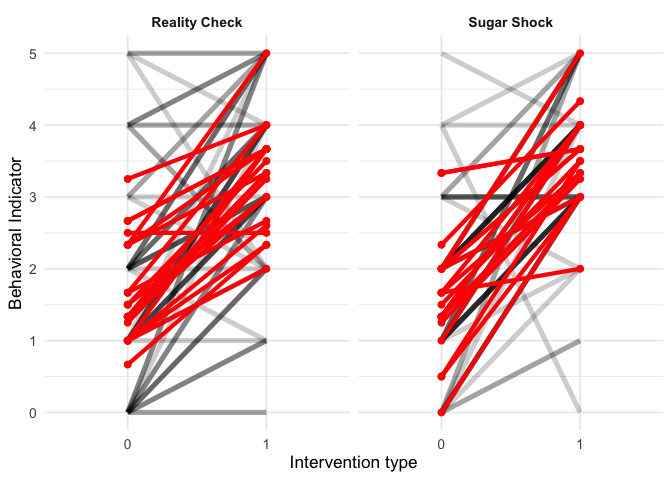
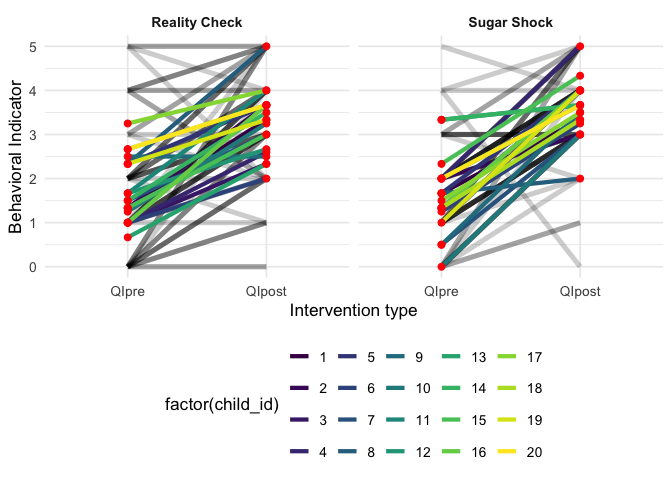
final_version

diff --git a/Projects/lea-immenkamp/Wenjing_solution.md b/Projects/lea-immenkamp/Wenjing_solution.md
@@ -1,4 +1,41 @@
-## Load the file
+# Topic: The impact of various deterrents on children’s consumption of sweets-from Lea
+
+    ## ── Attaching core tidyverse packages ──────────────────────── tidyverse 2.0.0 ──
+    ## ✔ dplyr     1.2.1     ✔ readr     2.2.0
+    ## ✔ forcats   1.0.1     ✔ stringr   1.6.0
+    ## ✔ ggplot2   4.0.3     ✔ tibble    3.3.1
+    ## ✔ lubridate 1.9.5     ✔ tidyr     1.3.2
+    ## ✔ purrr     1.2.2     
+    ## ── Conflicts ────────────────────────────────────────── tidyverse_conflicts() ──
+    ## ✖ dplyr::filter() masks stats::filter()
+    ## ✖ dplyr::lag()    masks stats::lag()
+    ## ℹ Use the conflicted package (<http://conflicted.r-lib.org/>) to force all conflicts to become errors
+    ## Loading required package: Matrix
+    ## 
+    ## 
+    ## Attaching package: 'Matrix'
+    ## 
+    ## 
+    ## The following objects are masked from 'package:tidyr':
+    ## 
+    ##     expand, pack, unpack
+
+## Load the file (btw. remove the missing values)
+
+### quick overview of the data
+
+1.The file consists of two sheets: “Intervention data” and
+“questionaire”.
+
+2.Each child was assigned to one of **two interventions**: “Reality
+Check” or “Sugar Shock”.(in dataset we use “1” for “Reality Check” and
+“2” for “Sugar Shock”).
+
+3.Each type experiment was conducted in **three rounds**, with a pre-
+and post-intervention measurement of the child’s consumption of sweets.
+The pre-intervention measurement is represented by the columns “i1t0” to
+“i5t0”, while the post-intervention measurement is represented by the
+columns “i1” to “i5”.
 
     file.exists("data.xlsx")
 
@@ -26,7 +63,7 @@
     ## $ Helpfulness  <dbl> 4, 4, 4, 4, 3, 3, 3, 4, 3, 2, 2, 3, 4, 4, 3, 3, 4, 2, 4, …
 
     Q_data <- read_excel("data.xlsx", sheet = "questionaire") %>% drop_na()
-    glimpse(Q_data)               
+    glimpse(Q_data)
 
     ## Rows: 20
     ## Columns: 6
@@ -39,8 +76,10 @@
 
 ## Data cleaning
 
-- Calculating the total value before intervention
-- Calculating the total value before intervention
+- Calculating the total value before intervention `QIpre`
+- Calculating the total value before intervention `QIpost`
+- using `across()` and `c()` to select the columns in a more “tidyverse”
+  style
 
 <!-- -->
 
@@ -49,8 +88,30 @@
     #revise: in a more "tidyverse" style
 
     Intervention_data <- Intervention_data %>% mutate(QIpre=rowSums(across(c(i1t0:i5t0))),QIpost=rowSums(across(c(i1:i5))))
+    glimpse(Intervention_data)
 
-- Calculating mean of sweet
+    ## Rows: 119
+    ## Columns: 16
+    ## $ child_id     <dbl> 1, 1, 1, 1, 1, 1, 2, 2, 2, 2, 2, 2, 3, 3, 3, 3, 3, 3, 4, …
+    ## $ Intervention <dbl> 1, 2, 1, 1, 2, 2, 1, 2, 1, 1, 2, 2, 2, 1, 1, 2, 1, 2, 2, …
+    ## $ i1t0         <dbl> 0, 0, 0, 1, 0, 0, 0, 1, 0, 0, 0, 0, 0, 0, 1, 0, 0, 0, 0, …
+    ## $ i2t0         <dbl> 0, 1, 0, 1, 0, 1, 1, 0, 0, 0, 0, 1, 1, 0, 1, 0, 1, 0, 0, …
+    ## $ i3t0         <dbl> 0, 0, 0, 0, 1, 0, 0, 1, 1, 0, 1, 0, 0, 0, 0, 1, 0, 0, 0, …
+    ## $ i4t0         <dbl> 0, 0, 1, 0, 1, 1, 0, 0, 1, 0, 0, 0, 1, 0, 0, 0, 0, 1, 1, …
+    ## $ i5t0         <dbl> 0, 0, 1, 0, 0, 0, 1, 1, 0, 0, 0, 1, 0, 0, 0, 0, 0, 0, 1, …
+    ## $ i1           <dbl> 0, 1, 1, 0, 1, 1, 1, 0, 1, 1, 1, 1, 1, 0, 1, 1, 1, 1, 1, …
+    ## $ i2           <dbl> 1, 1, 1, 1, 1, 1, 1, 0, 1, 1, 0, 1, 1, 0, 1, 1, 1, 0, 1, …
+    ## $ i3           <dbl> 1, 1, 1, 0, 1, 0, 0, 1, 1, 0, 1, 1, 1, 0, 0, 1, 0, 1, 1, …
+    ## $ i4           <dbl> 1, 0, 1, 0, 1, 1, 0, 1, 1, 0, 0, 0, 1, 0, 1, 1, 0, 1, 1, …
+    ## $ i5           <dbl> 1, 0, 1, 0, 0, 0, 1, 1, 1, 1, 0, 1, 1, 0, 1, 0, 1, 0, 1, …
+    ## $ Motivation   <dbl> 3, 2, 3, 3, 3, 3, 3, 4, 3, 3, 3, 3, 2, 3, 2, 2, 3, 4, 2, …
+    ## $ Helpfulness  <dbl> 4, 4, 4, 4, 3, 3, 3, 4, 3, 2, 2, 3, 4, 4, 3, 3, 4, 2, 4, …
+    ## $ QIpre        <dbl> 0, 1, 2, 2, 2, 2, 2, 3, 2, 0, 1, 2, 2, 0, 2, 1, 1, 1, 2, …
+    ## $ QIpost       <dbl> 4, 3, 5, 1, 4, 3, 3, 3, 5, 3, 2, 4, 5, 0, 4, 4, 3, 3, 5, …
+
+- Calculating mean of sweet to get children’s attitude toward sweet
+  consumption, and then merge it with Intervention\_data by “child\_id”
+  column.
 
 <!-- -->
 
@@ -79,76 +140,126 @@
     ## # ℹ 8 more variables: i2 <dbl>, i3 <dbl>, i4 <dbl>, i5 <dbl>, Motivation <dbl>,
     ## #   Helpfulness <dbl>, QIpre <dbl>, QIpost <dbl>
 
-    # plotdata_1
+## Data visualization
 
-    # "0" presents "pre"; "1" prsents "0" 
+1.  To compare the effect of two interventions, we make the plot where
+    each line represents one participant, connecting their pre score to
+    post score. We need two datasets:
+
+- the individual QIpre & QIpost scores
+
+<!-- -->
+
     plot_data <-df_withmean  %>% select(child_id, Intervention, QIpre,QIpost) %>%group_by(child_id, Intervention) %>%
     mutate(trial_id = row_number()) %>%
     ungroup() %>%
     mutate(pair_id = paste(child_id, Intervention, trial_id, sep = "_")) %>% pivot_longer(cols = c(QIpre,QIpost),names_to = "time",values_to = "score") %>% mutate(
         time = factor(time, 
-                      levels = c("QIpre","QIpost"),
-                      labels = c(0, 1))
+                      levels = c("QIpre","QIpost"))
       )  
+    glimpse(plot_data)
 
-       
-      
-    plot_data
+    ## Rows: 238
+    ## Columns: 6
+    ## $ child_id     <dbl> 1, 1, 1, 1, 1, 1, 1, 1, 1, 1, 1, 1, 2, 2, 2, 2, 2, 2, 2, …
+    ## $ Intervention <dbl> 1, 1, 2, 2, 1, 1, 1, 1, 2, 2, 2, 2, 1, 1, 2, 2, 1, 1, 1, …
+    ## $ trial_id     <int> 1, 1, 1, 1, 2, 2, 3, 3, 2, 2, 3, 3, 1, 1, 1, 1, 2, 2, 3, …
+    ## $ pair_id      <chr> "1_1_1", "1_1_1", "1_2_1", "1_2_1", "1_1_2", "1_1_2", "1_…
+    ## $ time         <fct> QIpre, QIpost, QIpre, QIpost, QIpre, QIpost, QIpre, QIpos…
+    ## $ score        <dbl> 0, 4, 1, 3, 2, 5, 2, 1, 2, 4, 2, 3, 2, 3, 3, 3, 2, 5, 0, …
 
-    ## # A tibble: 238 × 6
-    ##    child_id Intervention trial_id pair_id time  score
-    ##       <dbl>        <dbl>    <int> <chr>   <fct> <dbl>
-    ##  1        1            1        1 1_1_1   0         0
-    ##  2        1            1        1 1_1_1   1         4
-    ##  3        1            2        1 1_2_1   0         1
-    ##  4        1            2        1 1_2_1   1         3
-    ##  5        1            1        2 1_1_2   0         2
-    ##  6        1            1        2 1_1_2   1         5
-    ##  7        1            1        3 1_1_3   0         2
-    ##  8        1            1        3 1_1_3   1         1
-    ##  9        1            2        2 1_2_2   0         2
-    ## 10        1            2        2 1_2_2   1         4
-    ## # ℹ 228 more rows
+    # here I keep plot_data, because i need to used it to create "summary_data". and they will be used separately in the next step.
+
+- the mean score of all participants in each intervention group to
+  present tendency
+
+<!-- -->
 
     summary_data <- plot_data %>% group_by(child_id,Intervention,time) %>% summarise(mean=mean(score,na.rm=TRUE), .groups = "drop") 
-    summary_data
+    glimpse(summary_data)
 
-    ## # A tibble: 80 × 4
-    ##    child_id Intervention time   mean
-    ##       <dbl>        <dbl> <fct> <dbl>
-    ##  1        1            1 0      1.33
-    ##  2        1            1 1      3.33
-    ##  3        1            2 0      1.67
-    ##  4        1            2 1      3.33
-    ##  5        2            1 0      1.33
-    ##  6        2            1 1      3.67
-    ##  7        2            2 0      2   
-    ##  8        2            2 1      3   
-    ##  9        3            1 0      1   
-    ## 10        3            1 1      2.33
-    ## # ℹ 70 more rows
+    ## Rows: 80
+    ## Columns: 4
+    ## $ child_id     <dbl> 1, 1, 1, 1, 2, 2, 2, 2, 3, 3, 3, 3, 4, 4, 4, 4, 5, 5, 5, …
+    ## $ Intervention <dbl> 1, 1, 2, 2, 1, 1, 2, 2, 1, 1, 2, 2, 1, 1, 2, 2, 1, 1, 2, …
+    ## $ time         <fct> QIpre, QIpost, QIpre, QIpost, QIpre, QIpost, QIpre, QIpos…
+    ## $ mean         <dbl> 1.333333, 3.333333, 1.666667, 3.333333, 1.333333, 3.66666…
+
+From plot, we can conclude that there is no obvious difference between
+two interventions, but the “Suger shock” intervention seems to have a
+slightly better effect on reducing children’s consumption of sweets.
 
     ggplot() +
       geom_line(data=plot_data,alpha = 0.2, linewidth = 1.8,aes(x=time,y=score,group = pair_id)) +
-      geom_point(alpha = 0.4, size = 1.2) +geom_line(data=summary_data,aes(x=time,y=mean,group=child_id),colour="red",linewidth=1.5)+geom_point(data=summary_data,aes(x=time,y=mean),color="red",size=2)+facet_wrap(~ Intervention,
+      geom_point(alpha = 0.4, size = 1.2) +geom_line(data=summary_data,aes(x=time,y=mean,group=child_id,colour=factor(child_id)),linewidth=1.5)+geom_point(data=summary_data,aes(x=time,y=mean),color="red",size=2)+facet_wrap(~ Intervention,
         ncol = 2,
         labeller = labeller(Intervention = c(`1` = "Reality Check",
                                              `2` = "Sugar Shock"))
       ) +
       scale_y_continuous(breaks = 0:5, limits = c(0, 5)) +scale_color_viridis_d()+
-      labs(x = "Intervention type", y = "Behavioral Indicator") +
+      labs(x = "Intervention type", y = "Behavioral Indicator",legend="Child Id") +
       theme_minimal(base_size = 13) +
       theme(
         strip.text = element_text(hjust = 0.5, face = "bold"),
-        legend.position = "none"
+        legend.position = "bottom"
       )
 
 ![](Wenjing_solution_files/figure-markdown_strict/Data_Visualization-1.png)
+2. We need to make a plot to explore whether **motivation** moderates
+the relationship between the **intervention** and the QIpost in quality
+(for each type) and control for the initial QIpre.
 
-    #lm(QIpost ~ Intervention * Motivation + QIpre+（1｜child_id), data = df) because the random intercept variance was near 0 which indicates minimal between participants variablity after controlling baseline quality. so i changed it to `lm()`function
+We should use
+`model2 <- lmer(QIpost ~ intervention_type * motivaton + QIpre, data = data)`.
+Because
+
+`lmer() function` is used to fit linear mixed-effects models, which are
+useful when you have data that is grouped or clustered, such as
+**repeated measurements on the same subjects**. In this case, we have
+repeated measurements of QIpost for each child, and we want to account
+for the variability between children.
+
+The random intercept variance was near 0 which indicates minimal between
+participants variablity after controlling baseline quality.
+
+    model_lmer <- lmer(QIpost ~ Intervention * Motivation + QIpre + (1 | child_id), data = df_withmean)
+    summary(model_lmer)
+
+    ## Linear mixed model fit by REML ['lmerMod']
+    ## Formula: QIpost ~ Intervention * Motivation + QIpre + (1 | child_id)
+    ##    Data: df_withmean
+    ## 
+    ## REML criterion at convergence: 391.9
+    ## 
+    ## Scaled residuals: 
+    ##     Min      1Q  Median      3Q     Max 
+    ## -3.1694 -0.5469 -0.0095  0.7108  1.8329 
+    ## 
+    ## Random effects:
+    ##  Groups   Name        Variance Std.Dev.
+    ##  child_id (Intercept) 0.000    0.000   
+    ##  Residual             1.528    1.236   
+    ## Number of obs: 119, groups:  child_id, 20
+    ## 
+    ## Fixed effects:
+    ##                         Estimate Std. Error t value
+    ## (Intercept)              3.94291    1.69237   2.330
+    ## Intervention            -0.67304    1.05102  -0.640
+    ## Motivation              -0.47114    0.56284  -0.837
+    ## QIpre                    0.22875    0.08319   2.750
+    ## Intervention:Motivation  0.33717    0.35259   0.956
+    ## 
+    ## Correlation of Fixed Effects:
+    ##             (Intr) Intrvn Motvtn QIpre 
+    ## Interventin -0.947                     
+    ## Motivation  -0.974  0.926              
+    ## QIpre       -0.208  0.124  0.124       
+    ## Intrvntn:Mt  0.927 -0.976 -0.950 -0.119
+    ## optimizer (nloptwrap) convergence code: 0 (OK)
+    ## boundary (singular) fit: see help('isSingular')
 
     model <- lm(QIpost ~ Intervention * Motivation + QIpre, data = df_withmean) 
-    model %>% summary()
+    summary(model)
 
     ## 
     ## Call:
@@ -178,3 +289,6 @@
     model %>% plotmod(x=Motivation,w=Intervention)+labs(y="QIpost quality",title="Motivation effect")
 
 ![](Wenjing_solution_files/figure-markdown_strict/plot_data_sencond_plot-1.png)
+Conclusion: The interaction between intervention type and motivation was
+not significant ( p = 0.341), suggesting that motivation did not
+significantly moderate the relationship between intervention and QIpost.